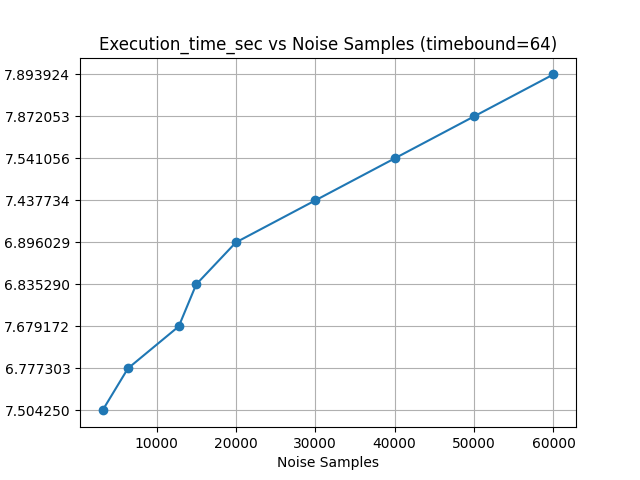
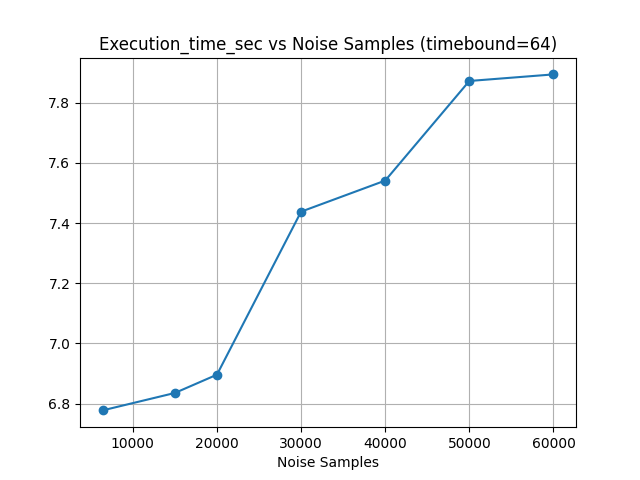
some results...

diff --git a/quant.py b/quant.py
@@ -443,8 +443,8 @@ def constants_vs_var(con, val, variable): #cons: Dict{con:str, val:str}
 
             variable_val = float(row[variable])
             results.append({variable: variable_val,
-                            "Execution_time_sec": row["Execution_time_sec"],
-                            "Convergence_iteration": row["Convergence_iteration"],})
+                            "Execution_time_sec": float(row["Execution_time_sec"]),
+                            "Convergence_iteration": int(row["Convergence_iteration"]),})
             print(f"{address}", results[-1])
         return results
 
@@ -467,18 +467,23 @@ def plot_x(results, x_var, y_var, con, val):
 
 
 
-con, val, variable = "timebound", "64", "Noise Samples"
-results = constants_vs_var(con, val, variable)
-plot_x(results, variable, "Execution_time_sec", con, val)
+# con, val, variable = "timebound", "64", "Noise Samples"
+# results = constants_vs_var(con, val, variable)
+# del results[0]
+# del results[1]
+# plot_x(results, variable, "Execution_time_sec", con, val)
 
 
 con, val, variable = "timebound", "64", "Transitions"
 results = constants_vs_var(con, val, variable)
+del results[0]
+del results[1]
 plot_x(results, variable, "Execution_time_sec", con, val)
 
 
-# cons, variable = {"timebound": "64"}, "Transitions
-# results = constants_vs_var(cons, variable)
-# plot_x(results, variable, "Execution_time_sec", cons)
+# con, val, variable = "Transitions", "417998", "timebound"
+# results = constants_vs_var(con, val, variable)
+# plot_x(results, variable, "Execution_time_sec", con, val)
 
 
+a = 5
